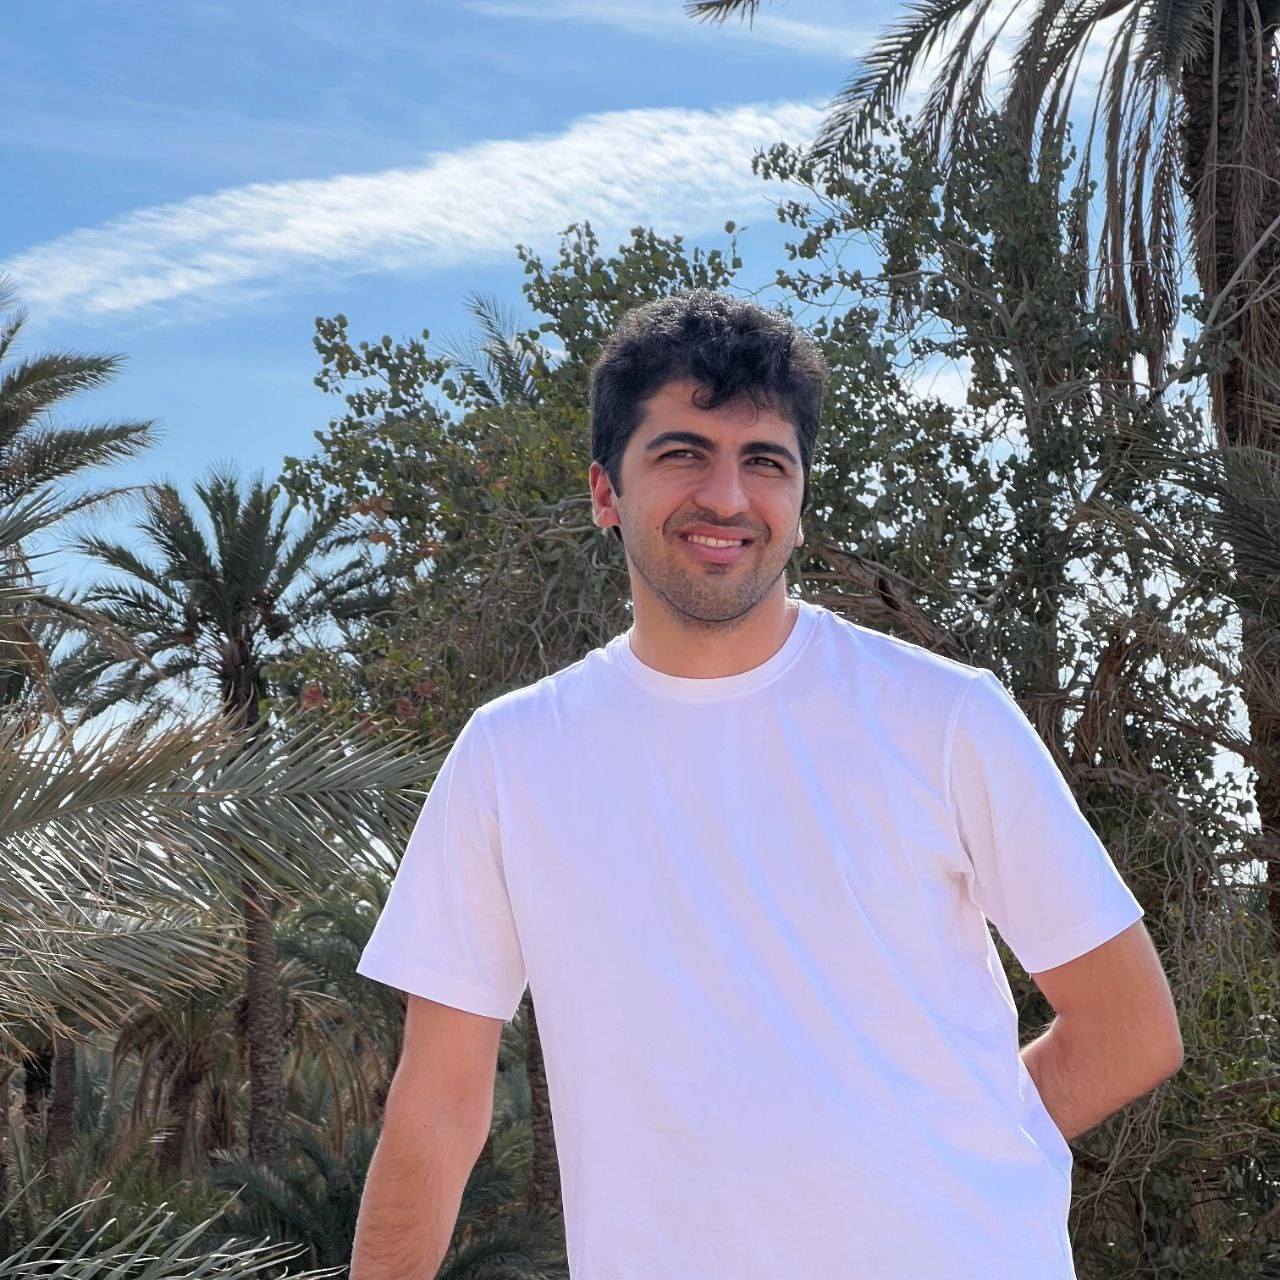
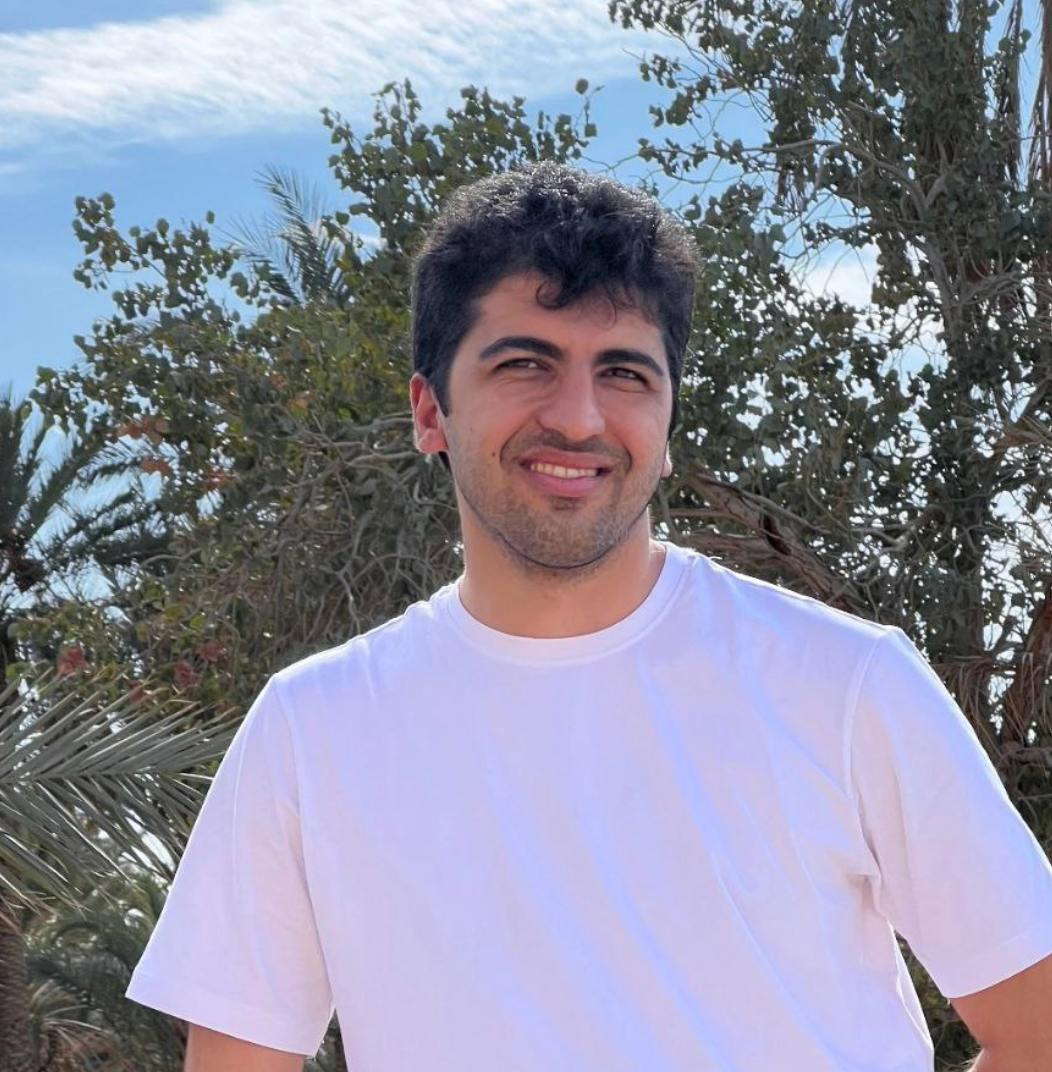
polished.

diff --git a/content/resume.md b/content/resume.md
@@ -4,7 +4,9 @@ draft = false
 title = 'About me'
 +++
 
-<img src="static/images/profile.jpg" alt="Profile Picture" class="profile-picture">
+{{< rawhtml >}}
+<img src="/images/profile.jpg" alt="Profile Picture" class="profile-picture">
+{{< /rawhtml >}}
 
 Hello! I'm Mohammad Reza Dehghani Tafti, a Senior Java developer with over 8 years of experience coding back-end layer and infrastructure of enterprise applications, as well a leading and advising junior and mid-level developers. Contributed to design and development of more than 11 enterprise applications, from requirement management to production delivery and maintenance plans.
 

diff --git a/content/blog/first-post.md b/content/blog/first-post.md
@@ -11,6 +11,8 @@ title = 'First Post'
 
 ## Welcome to My First Post!
 
+[book](/images/scrum.jpg)
+
 This is the content of my first blog post. I’m excited to share my thoughts and ideas with you. 
 
 You can listen to the audio version of this post using the player above. Enjoy!